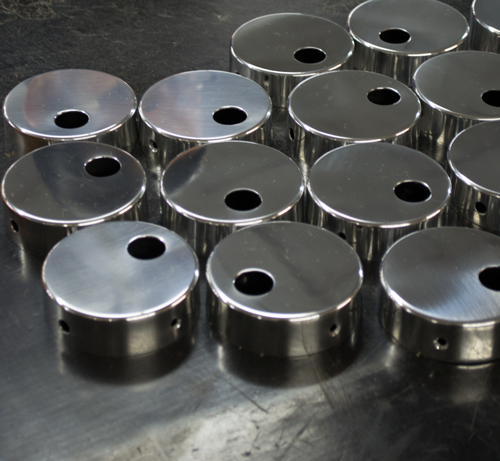
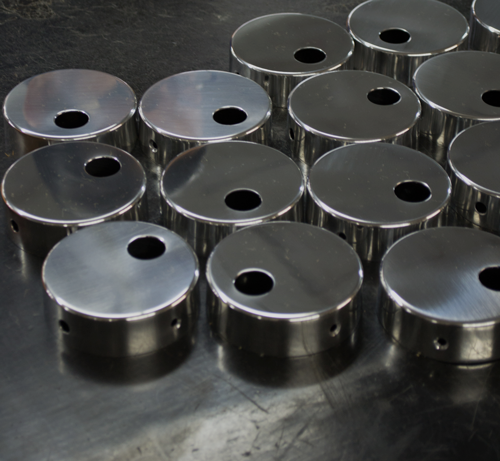
troca jpg por png

diff --git a/css/ajustes-lucas.css b/css/ajustes-lucas.css
@@ -215,7 +215,7 @@ section#gallery .foto-galeria{
   border:5px solid white;
 }
 section#gallery #foto-galeria-1{
-  background: url("../img/foto-galeria1.jpg");
+  background: url("../img/foto-galeria1.png");
   background-size: cover;
 }
 section#gallery #foto-galeria-2{
@@ -223,11 +223,11 @@ section#gallery #foto-galeria-2{
   background-size: cover;
 }
 section#gallery #foto-galeria-3{
-  background: url("../img/foto-galeria3.jpg");
+  background: url("../img/foto-galeria3.png");
   background-size: cover;
 }
 section#gallery #foto-galeria-4{
-  background: url("../img/foto-galeria4.jpg");
+  background: url("../img/foto-galeria4.png");
   background-size: cover;
 }
 
